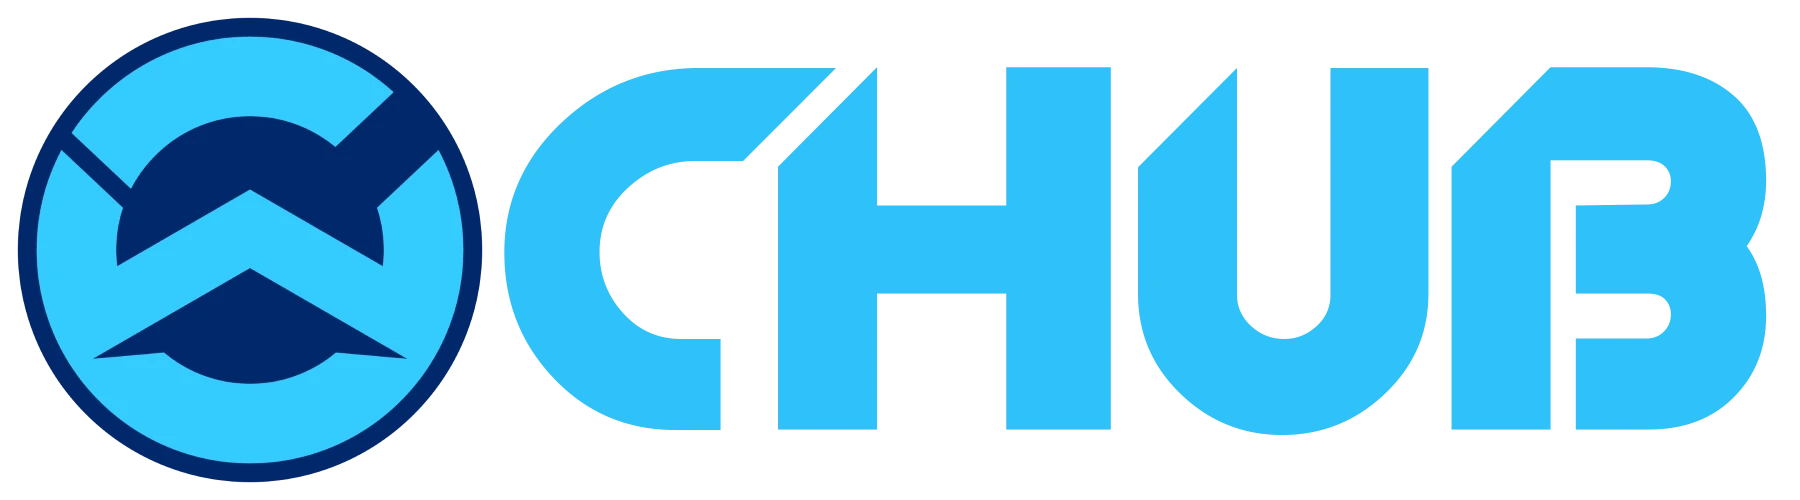
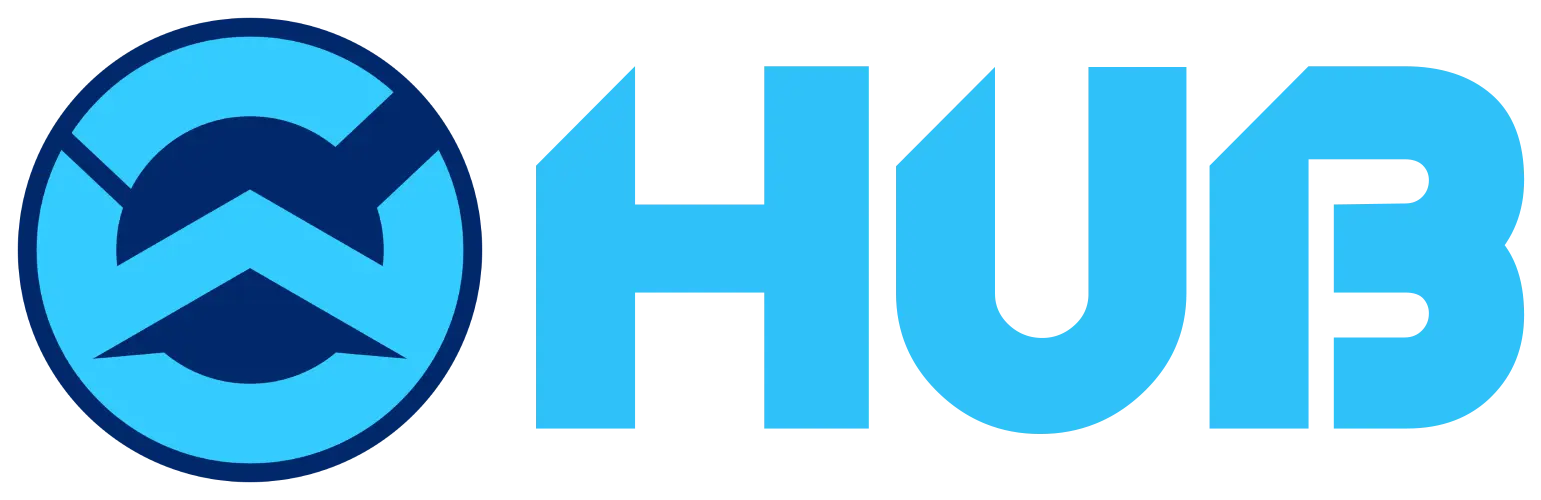
Removed reference to CHub

diff --git a/src/App.js b/src/App.js
@@ -27,7 +27,7 @@ const drivershub = `    ____       _                         __  __      __
 function App() {
     useEffect(() => {
         console.log(drivershub);
-        console.log("The Drivers Hub Project (CHub)");
+        console.log("The Drivers Hub Project");
         console.log(`Copyright (C) 2022-2026 CharlesWithC All rights reserved.`);
     }, []);
 
@@ -151,13 +151,13 @@ function App() {
                                     Proudly Made in Canada 🇨🇦
                                 </Typography>
                                 <Typography variant="body2" sx={{ marginLeft: "auto", alignSelf: 'flex-end', textAlign: "right", fontWeight: "bold" }}>
-                                    The Drivers Hub Project (CHub)
+                                    The Drivers Hub Project
                                     <br />
-                                    <a href="https://wiki.charlws.com/books/changelog" target="_blank" rel="noreferrer">Changelog</a>
-                                    &nbsp;|&nbsp;
                                     <a href="https://github.com/CharlesWithC" target="_blank" rel="noreferrer">GitHub</a>
                                     &nbsp;|&nbsp;
                                     <a href="https://discord.gg/wNTaaBZ5qd" target="_blank" rel="noreferrer">Discord</a>
+                                    &nbsp;|&nbsp;
+                                    <a href="https://wiki.charlws.com/books/changelog" target="_blank" rel="noreferrer">Change Log</a>
                                     &nbsp;|&nbsp;
                                     <a href="https://wiki.charlws.com/" target="_blank" rel="noreferrer">Wiki</a>
                                 </Typography>
@@ -166,11 +166,11 @@ function App() {
                                 <Typography variant="body2" sx={{ fontWeight: "bold" }}>
                                     &copy; 2022-2026 <a href="https://charlws.com/" target="_blank" rel="noreferrer">CharlesWithC</a>
                                     <br />
-                                    <a href="https://wiki.charlws.com/books/changelog" target="_blank" rel="noreferrer">Changelog</a>
-                                    &nbsp;|&nbsp;
                                     <a href="https://github.com/CharlesWithC" target="_blank" rel="noreferrer">GitHub</a>
                                     &nbsp;|&nbsp;
                                     <a href="https://discord.gg/wNTaaBZ5qd" target="_blank" rel="noreferrer">Discord</a>
+                                    &nbsp;|&nbsp;
+                                    <a href="https://wiki.charlws.com/books/changelog" target="_blank" rel="noreferrer">Change Log</a>
                                     &nbsp;|&nbsp;
                                     <a href="https://wiki.charlws.com/" target="_blank" rel="noreferrer">Wiki</a>
                                 </Typography>

diff --git a/src/routes/home.js b/src/routes/home.js
@@ -62,7 +62,7 @@ const Home = () => {
                 <Card>
                     <CardContent>
                         <Typography variant="h5" sx={{ display: 'flex', alignItems: 'center', fontWeight: "bold", mb: "10px" }}>
-                            The Drivers Hub Project (CHub)
+                            The Drivers Hub Project
                         </Typography>
                         <Typography variant="body1" sx={{ mb: "5px" }}>
                             This is an advanced Drivers Hub solution for Euro Truck Simulator 2 / American Truck Simulator VTCs.
@@ -77,7 +77,7 @@ const Home = () => {
                             Give it a <span style={{ color: "#fcd116" }}>⭐ star</span> and read the <span style={{ color: "#5BA3F5" }}><a href="https://wiki.charlws.com/books/chub/page/2025-dec-an-update" target="_blank" rel="noreferrer">blog post</a></span> to learn about the reason that the project was open-sourced.
                         </Typography>
                         <Typography variant="body1" sx={{ mb: "5px" }}>
-                            This website is the home page for the open-source project. To create or manage a Drivers Hub, please visit <span style={{ color: "#5BA3F5" }}><a href="https://admin.chub.page/" target="_blank" rel="noreferrer">CHub Portal</a></span>.
+                            This website is the home page for the open-source project. For managed service providers, check <span style={{ color: "#5BA3F5" }}><a href="https://github.com/CharlesWithC/HubWebsite/wiki/Managed-Service-Providers" target="_blank" rel="noreferrer">this wiki page</a></span>.
                         </Typography>
                         <CardMedia component="img" image="/images/user-banner.webp" sx={{ width: window.innerWidth >= 960 ? "80%" : "100%", borderRadius: "5px" }} />
                     </CardContent>

diff --git a/src/components/sidebar.js b/src/components/sidebar.js
@@ -65,11 +65,11 @@ const SideBar = (props) => {
         };
     }, []);
 
-    const menuName = { "home": "Home", "features": "Features", "live_map": "Live Map", "backend": "Backend Repo", "frontend": "Frontend Repo", "portal": "CHub Portal" };
-    const menuIcon = { "home": <HomeRounded />, "features": <StarRounded />, "live_map": <MapRounded />, "backend": <StorageRounded />, "frontend": <WebRounded />, "portal": <FlightTakeoff /> };
-    const menuRoute = { "home": "/", "features": "/features", "live_map": "/map", "backend": "https://github.com/CharlesWithC/HubBackend", "frontend": "https://github.com/CharlesWithC/HubFrontend", "portal": "https://admin.chub.page/" };
+    const menuName = { "home": "Home", "features": "Features", "live_map": "Live Map", "backend": "Backend Repo", "frontend": "Frontend Repo", "external": "Managed Service" };
+    const menuIcon = { "home": <HomeRounded />, "features": <StarRounded />, "live_map": <MapRounded />, "backend": <StorageRounded />, "frontend": <WebRounded />, "external": <FlightTakeoff /> };
+    const menuRoute = { "home": "/", "features": "/features", "live_map": "/map", "backend": "https://github.com/CharlesWithC/HubBackend", "frontend": "https://github.com/CharlesWithC/HubFrontend", "external": "https://github.com/CharlesWithC/HubWebsite/wiki/Managed-Service-Providers" };
 
-    let menu = [["home", "features", "live_map"], ["backend", "frontend"], ["portal"]];
+    let menu = [["home", "features", "live_map"], ["backend", "frontend"], ["external"]];
 
     let routeIndex = {};
     for (let i = 0; i < menu.length; i++) {

diff --git a/public/index.html b/public/index.html
@@ -11,13 +11,13 @@
     <meta name="twitter:image:src" content="https://drivershub.charlws.com/images/logo.webp" />
     <meta name="twitter:site" content="@CharlesWithC" />
     <meta name="twitter:creator" content="@CharlesWithC" />
-    <meta property="og:title" content="The Drivers Hub Project (CHub)" />
+    <meta property="og:title" content="The Drivers Hub Project" />
     <meta property="og:description" content="An open-sourced, advanced Drivers Hub solution for the TruckSim community. Est. 2022."/>
     <meta property="og:image" content="https://drivershub.charlws.com/images/banner.webp" />
     <meta property="og:url" content="https://drivershub.charlws.com/" />
     <meta content="#2fc1f7" data-react-helmet="true" name="theme-color" />
     <link rel="manifest" href="%PUBLIC_URL%/manifest.json" />
-    <title>The Drivers Hub Project (CHub)</title>
+    <title>The Drivers Hub Project</title>
   </head>
   <body style="background-color:#2F3136;">
     <noscript style="color:white">Javascript must be enabled to use the Drivers Hub.</noscript>

diff --git a/src/fonts/opensans/opensans.css b/src/fonts/opensans/opensans.css
@@ -1,5 +1,3 @@
-/* NOTE Use cdn.chub.page or similar */
-
 @font-face {
     font-family: "Open Sans";
     src: url(./OpenSans-Regular.woff2) format('woff2')
